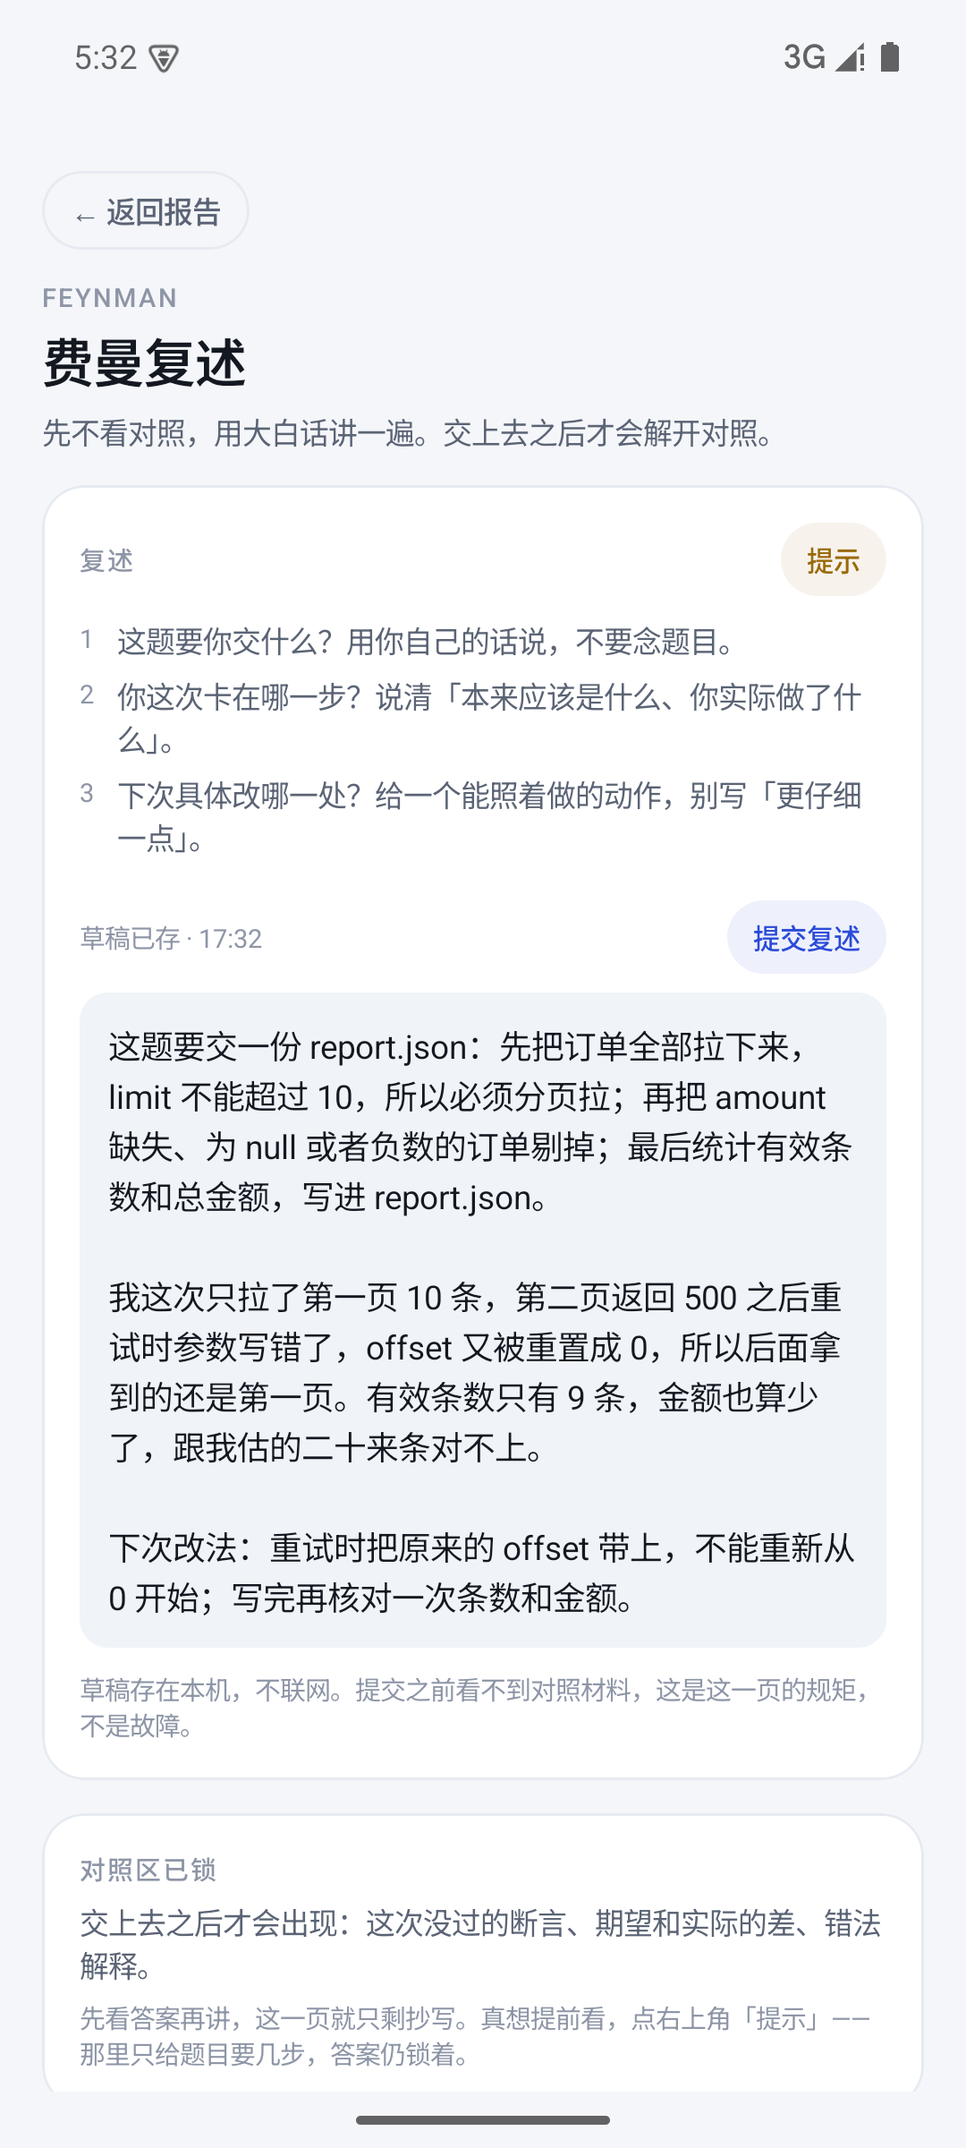
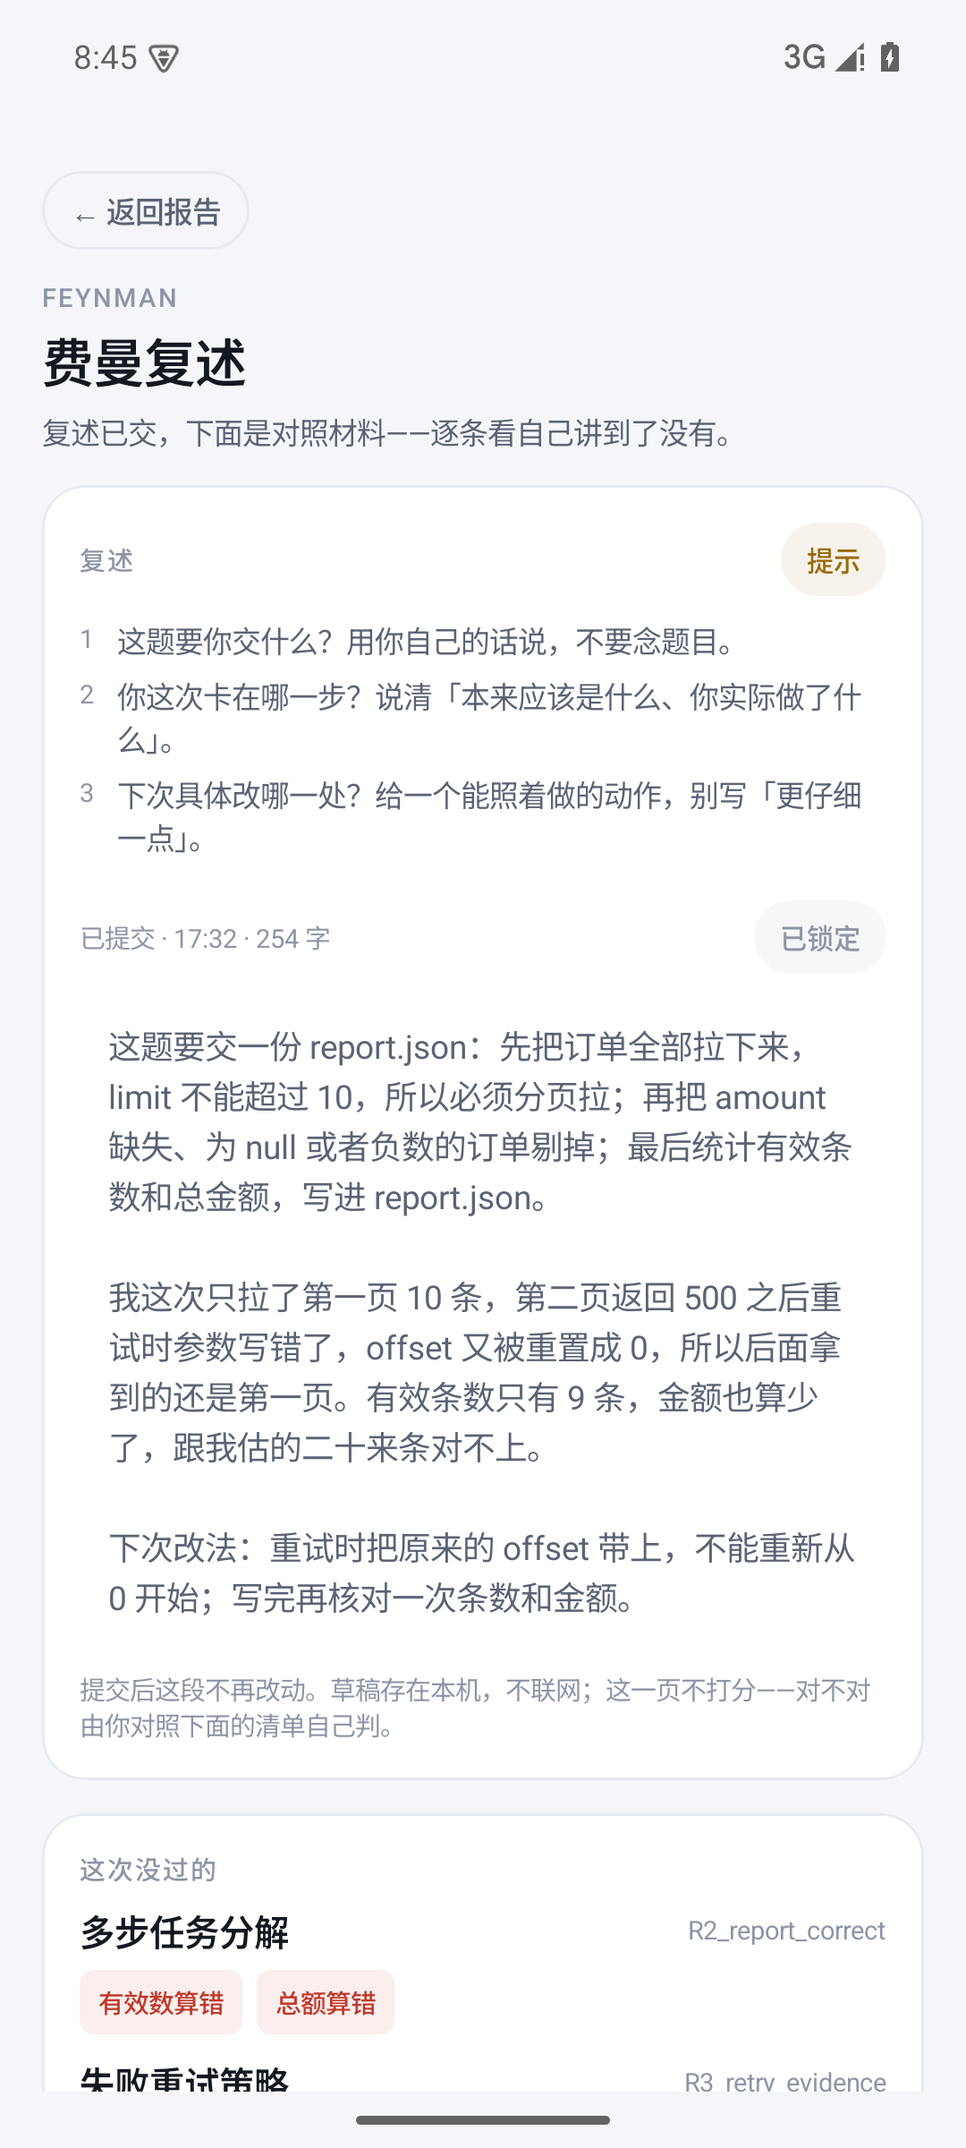
fix(feynman): 「这次没过的」不再印断言 id；四页走查完成并重拍截图
模拟器（arena35，headless）跑起来后逐页走查，撞到一处与对外声明矛盾的机器码：
复述页「这次没过的」每个技能名右侧直接印 `R3_retry_evidence`，
而计划书当时已经写着「报告页 / 训练单页 / 复述页三页都不再出现断言 id」。

改法与 B-37/B-39 同一套路：由产出侧翻好再下发。
- feynman.py 的 gaps 多一个 failed_titles（取报告 assertions[].title）；
  缺中文标题直接抛 ReportError，**不退回 id**——回退会让「报告结构破损」
  在页面上表现成「显示了一串英文」，那是样式问题，没人会提 bug。
- Kotlin 的 FeynmanGap 加 failedTitles，页面渲染它；failedAssertions 只留给对账与测试。

测试 2 条（tests/test_feynman.py，34 条全绿）：
- failed_titles 必须逐项等于报告 title、顺序一致、不含 `R\d+_`、不许为空；
- 去掉 title 必须抛错。
变异：把 failed_titles 改回 id ⇒ 立刻红并打印
`['R2_report_correct'] == ['结论是否与判据一致']`。

顺带走查并重拍四页截图（原来那几张是 11-20/11-21 的，页面已经变了）：
android-report-final.png / android-training.png / feynman-recall.png / feynman-checklist.png
全部换成 11-25 的实拍，另加两张新的：android-training-focus.png（练完回来看哪一条、
已显示中文判据标题）、reminder-today.png（提醒页首次上屏：今天 2 项 / 顺延 1 项 / 上限原句）。

文档口径随之订正：计划书四处「提醒页未走查」改为已跑通并实拍、进度快照日期改 11-25、
模块完成度由三页改四页；handoff §9 划掉「未在设备上走过」并写清走查看到的三件事；
android-build.md 的截图清单标明哪两张是重拍的、哪五张仍是旧的。

文案总表 194 → 195：新增那条是 feynman.py 的 ReportError 消息，
表的口径本来就把数据层异常消息算进去（既有的「技能词表里没有 name」也在表内）。

diff --git a/android/app/src/main/java/com/arena/companion/FeynmanPrompt.kt b/android/app/src/main/java/com/arena/companion/FeynmanPrompt.kt
@@ -21,6 +21,9 @@ data class FeynmanPattern(val label: String, val plain: String)
 
 data class FeynmanGap(
     val skillLabel: String,
+    // failedTitles 才是屏幕上的字（如「结论是否与判据一致」）。
+    // failedAssertions 留着只给对账/测试用——页面上印 `R2_report_correct` 是 bug。
+    val failedTitles: List<String>,
     val failedAssertions: List<String>,
     val patterns: List<FeynmanPattern>,
 )
@@ -81,6 +84,7 @@ fun parseFeynmanPrompt(text: String): FeynmanPrompt {
         gaps = root.optJSONArray("gaps").mapObjects { o ->
             FeynmanGap(
                 skillLabel = o.optString("skill_label"),
+                failedTitles = o.optJSONArray("failed_titles").toStringList(),
                 failedAssertions = o.optJSONArray("failed_assertions").toStringList(),
                 patterns = o.optJSONArray("patterns").mapObjects { p ->
                     FeynmanPattern(

diff --git a/android/app/src/main/java/com/arena/companion/FeynmanScreen.kt b/android/app/src/main/java/com/arena/companion/FeynmanScreen.kt
@@ -353,7 +353,7 @@ private fun GapCard(prompt: FeynmanPrompt) {
             Row(verticalAlignment = Alignment.CenterVertically) {
                 Text(gap.skillLabel, style = TH2)
                 Spacer(Modifier.weight(1f))
-                Text(gap.failedAssertions.joinToString("、"), style = TMicro)
+                Text(gap.failedTitles.joinToString("、"), style = TMicro)
             }
             if (gap.patterns.isNotEmpty()) {
                 Spacer(Modifier.height(6.dp))

diff --git a/tests/test_feynman.py b/tests/test_feynman.py
@@ -10,6 +10,7 @@
 from __future__ import annotations
 
 import json
+import re
 import sys
 from pathlib import Path
 
@@ -19,7 +20,7 @@ import yaml
 ROOT = Path(__file__).resolve().parents[1]
 sys.path.insert(0, str(ROOT / "src"))
 
-from arena.diagnosis_report import load_pattern_labels, load_skill_labels  # noqa: E402
+from arena.diagnosis_report import ReportError, load_pattern_labels, load_skill_labels  # noqa: E402
 from arena.feynman import (  # noqa: E402
     FeynmanError,
     QUESTIONS,
@@ -295,6 +296,38 @@ def test_checklist_steps_are_verbatim_from_task(prompt, task):
     steps = [item for item in prompt["checklist"] if item["kind"] == "step"]
     assert [item["text"] for item in steps] == asks_of(task)
     assert steps, "没有步骤就不该有清单主干——空清单等于页面假装自查过了"
+
+
+def test_gap_failed_titles_are_chinese_and_not_ids(prompt, report):
+    """「这次没过的」右上角那行必须是中文标题，不能是 `R3_retry_evidence`。
+
+    2026-11-25 在模拟器上实测到：报告页与训练单页都改完了，这一页还印着断言 id，
+    而计划书当时已经对外写着「三页都不再出现断言 id」。这条测试就是补上那个洞。
+    """
+    titles = {a["id"]: a["title"] for a in report["assertions"]}
+    seen = 0
+    for gap in prompt["gaps"]:
+        assert gap["failed_titles"] == [titles[i] for i in gap["failed_assertions"]], (
+            "failed_titles 必须逐项等于报告里的 title，且顺序与 failed_assertions 一致"
+        )
+        for title in gap["failed_titles"]:
+            assert not re.match(r"^R\d+_", title), f"页面上出现了断言 id：{title}"
+            assert title.strip(), "空标题比 id 更糟——看起来像样式没写好"
+        seen += 1
+    assert seen == 2, "这份样例报告该有两个技能缺口，数不对说明测试没验到东西"
+
+
+def test_gap_assertion_without_title_raises(report, task):
+    """缺中文标题就抛错，不退回 id。
+
+    回退会让「报告结构破损」在页面上表现成「显示了一串英文」，
+    那是样式问题，没人会提 bug。
+    """
+    broken = json.loads(json.dumps(report))
+    for assertion in broken["assertions"]:
+        assertion.pop("title", None)
+    with pytest.raises(ReportError, match="中文标题"):
+        build_prompt(broken, task)
 
 
 def test_checklist_missed_text_is_verbatim_from_report(prompt, report):

diff --git a/src/arena/feynman.py b/src/arena/feynman.py
@@ -190,11 +190,27 @@ def build_prompt(
     if missing:
         raise FeynmanError(f"错误模式 {missing} 出现在报告里，但 {VOCAB_PATH.name} 里查不到")
 
+    # 断言 id → 报告下发的中文标题。页面上的「没过哪几条」要给人读的字，
+    # 但 `failed_assertions` 里只有 id；这里一次翻好，页面不再有机会印 `R3_retry_evidence`。
+    titles = {
+        str(a.get("id")): str(a.get("title") or "")
+        for a in report.get("assertions") or ()
+        if a.get("id") is not None
+    }
+
     gaps: list[dict[str, Any]] = []
     for gap in report.get("skill_gaps") or ():
         skill_id = gap.get("skill_id")
         if skill_id not in skill_labels:
             raise ReportError(f"缺口里的技能 {skill_id!r} 在技能词表里没有 name")
+        failed_ids = [str(i) for i in (gap.get("failed_assertions") or ())]
+        missing_titles = [i for i in failed_ids if not titles.get(i)]
+        if missing_titles:
+            # 不退回 id：页面上出现 `R2_report_correct` 会让「报告结构破损」
+            # 看起来像「样式问题」，没人会为它提 bug。
+            raise ReportError(
+                f"缺口里的断言 {missing_titles} 在报告的 assertions 里没有中文标题"
+            )
         patterns = [
             {
                 "id": pid,
@@ -206,7 +222,8 @@ def build_prompt(
         gaps.append(
             {
                 "skill_label": skill_labels[skill_id],
-                "failed_assertions": list(gap.get("failed_assertions") or ()),
+                "failed_assertions": failed_ids,
+                "failed_titles": [titles[i] for i in failed_ids],
                 "weight_lost": gap.get("weight_lost"),
                 "patterns": patterns,
             }

diff --git a/docs/项目计划书草稿-v0.5.md b/docs/项目计划书草稿-v0.5.md
@@ -38,7 +38,7 @@
 
 **交付形态（2026-11-20 定稿）**：**Android 原生应用**（Kotlin + Jetpack Compose），承载诊断报告 / 训练单 / 费曼复述 / 复习提醒，是学习闭环的主入口；Web 端只承担 Agent 开发与提交。Streamlit 仅作内部开发工作台，**不进入交付物**。
 
-**当前进度快照（2026-11-24，可现场核验）**：本计划书描述完整蓝图，其中**评测层、状态层、推荐口径与移动端三页已实现并跑通**——单元测试 **2146 个用例全绿**（`pytest tests/ -q`，**2143 passed / 3 skipped / 0 failed**；串行跑的口径，与评审包一致——并行跑时 `test_review_packet` 有一条因 xdist 语义跳过，会多显示 1 条 skipped，那不是两条真相源；每次运行的档案留存在 `docs/test-evidence/INDEX.md`，含 commit、环境、逐文件用例数）；任务库 **27 个**已建（五族 7/7/5/5/3 道：汇报 / 重试 / 参数面 / 定位 / 交接，难度档 1/2/3 全覆盖）；首个任务 `dbg-001-order-report` 用五份不同质量的**手写**假提交跑出 **0 / 0.25 / 0 / 0 / 1.00** 的区分度（明细见 §4.6），**另有全库 27 道题各 5–6 种形态的机器矩阵**（判据是"分数 + 失败断言 + 错误模式"两两互不相同，`tests/test_discrimination.py`）；掌握度（自研 EMA + 时间衰减）与复习排程已编码，可跑出成绩单（`scripts/mastery_scorecard.py`；掌握度 + 排程 + 调度共 140 条测试通过）；规则推荐已落地为「同族逐档」（§4.2-6，`src/arena/training.py` + 30 条测试）；费曼复述页已落地为「三问提纲 → 提交锁定 → 解锁对照清单 → 逐条自查」（`src/arena/feynman.py` + 29 条测试）；Android 原生**报告页、训练单页与费曼复述页**已在模拟器上跑通并实拍（`docs/images/android-report-final.png`、`android-training.png`、`feynman-recall.png`、`feynman-checklist.png`）；报错文案已全部改成人话（19 条错误模式各有一句事实句 + 一句动作句），**报告页 / 训练单页 / 复述页三页都不再出现断言 id 与字段名**（如 `R2_report_correct`、`valid_count`）；复述页的「这个错法叫什么」用词表新增的 `plain` 字段，`description` 仍留给 judge 判据清单。**尚未完成**：复习提醒页的**设备走查与截图**（代码、数据契约与资源同源校验已完成，APK 编过；2026-11-24 本机无可连设备）、掌握度回测——逐项见 §六。
+**当前进度快照（2026-11-25，可现场核验）**：本计划书描述完整蓝图，其中**评测层、状态层、推荐口径与移动端四页已实现并跑通**——单元测试 **2146 个用例全绿**（`pytest tests/ -q`，**2143 passed / 3 skipped / 0 failed**；串行跑的口径，与评审包一致——并行跑时 `test_review_packet` 有一条因 xdist 语义跳过，会多显示 1 条 skipped，那不是两条真相源；每次运行的档案留存在 `docs/test-evidence/INDEX.md`，含 commit、环境、逐文件用例数）；任务库 **27 个**已建（五族 7/7/5/5/3 道：汇报 / 重试 / 参数面 / 定位 / 交接，难度档 1/2/3 全覆盖）；首个任务 `dbg-001-order-report` 用五份不同质量的**手写**假提交跑出 **0 / 0.25 / 0 / 0 / 1.00** 的区分度（明细见 §4.6），**另有全库 27 道题各 5–6 种形态的机器矩阵**（判据是"分数 + 失败断言 + 错误模式"两两互不相同，`tests/test_discrimination.py`）；掌握度（自研 EMA + 时间衰减）与复习排程已编码，可跑出成绩单（`scripts/mastery_scorecard.py`；掌握度 + 排程 + 调度共 140 条测试通过）；规则推荐已落地为「同族逐档」（§4.2-6，`src/arena/training.py` + 30 条测试）；费曼复述页已落地为「三问提纲 → 提交锁定 → 解锁对照清单 → 逐条自查」（`src/arena/feynman.py` + 29 条测试）；Android 原生**报告页、训练单页、费曼复述页与复习提醒页四页**已在模拟器上逐页走查并实拍（`docs/images/android-report-final.png`、`android-training.png`、`feynman-recall.png`、`feynman-checklist.png`、`reminder-today.png`）；报错文案已全部改成人话（19 条错误模式各有一句事实句 + 一句动作句），**报告页 / 训练单页 / 复述页三页都不再出现断言 id 与字段名**（如 `R2_report_correct`、`valid_count`）；复述页的「这个错法叫什么」用词表新增的 `plain` 字段，`description` 仍留给 judge 判据清单。**尚未完成**：掌握度历史回测（需本人历史练习数据）；真机（荣耀）上的输入法语音键实测与录屏素材——逐项见 §六。
 **阅读约定**：§4.6 之内是**已实测**，§4.6 之外（除特别标注）是**设计陈述**。两者不混写。
 
 ---
@@ -273,7 +273,7 @@
 | 训练单页（报告 →「下一步」→ 下一档练什么 / 怎么算练会 / 回来核对哪条） | ✅ **已跑通**（模拟器实拍） | `docs/images/android-training.png`；`pytest tests/test_training.py -q` |
 | 费曼复述页（三问提纲 → 提交锁定 → 解锁对照清单 → 逐条自查；只有文字输入） | ✅ **已跑通**（模拟器实拍，覆盖提交前 / 提交确认 / 提交后三态） | `docs/images/feynman-recall.png`、`feynman-hint-locked.png`、`feynman-commit-dialog.png`、`feynman-unlocked.png`、`feynman-checklist.png`、`feynman-hint-open.png`；`pytest tests/test_feynman.py -q` |
 | 用户可见文案总表（194 条，含 `文件:行` 定位；**脚本生成，不许手改**） | ✅ **已落地**（改代码不重生成表，测试会红；命令行 help 自动归类，不混进页面文案） | `python scripts/copy_inventory.py --check`；`pytest tests/test_copy_inventory.py -q` |
-| 复习提醒页 | 🟡 **已实现、未走查**（今日队列 / 上限截断 / 被推迟项点名 / cap=0 与空态分开说；`assets/reminder.json` 由数据侧生成，Compose 第四页已接、APK 编过，**本机无可连设备，未在屏幕上验过**） | `python scripts/review_page.py --at 2026-11-22T21:00:00+08:00`；`pytest tests/test_reminder.py tests/test_reminder_asset.py -q` |
+| 复习提醒页 | ✅ **已跑通**（2026-11-25 在模拟器上逐项走查：今日队列 2 项 / 明天顺延 1 项 / 上限原句 / 技能名与错法均为中文，页面无内部 id） | `docs/images/reminder-today.png`；`python scripts/review_page.py --at 2026-11-22T21:00:00+08:00`；`pytest tests/test_reminder.py tests/test_reminder_asset.py -q` |
 | 掌握度历史回测（AUC） | ⚪ 未做（需本人历史练习数据，现无） | — |
 
 **四、judge 双评一致性（2026-11-14 实测）**
@@ -302,7 +302,7 @@
 | 项 | 状态 | 说明 |
 |---|---|---|
 | 掌握度 / 复习调度 / 四因子排程 | 未开始编码 | 口径已在 §4.2-8 / -9 定，按 §六 M3–M5 |
-| 移动端 | 报告页、训练单页、费曼复述页三页**已跑通并实拍**；**复习提醒页已实现（数据 + Compose 页 + 资源同源校验，APK 编过），但未做设备走查** | Android 原生（2026-11-20 定稿），模拟器实拍见 `docs/images/`；四页仍用状态机切换（页面间无回退栈需求），到第五页再引导航组件 |
+| 移动端 | 报告页、训练单页、费曼复述页、复习提醒页四页**均已在模拟器上走查并实拍**（2026-11-25） | Android 原生（2026-11-20 定稿），模拟器实拍见 `docs/images/`；四页仍用状态机切换（页面间无回退栈需求），到第五页再引导航组件 |
 | 真实 LLM 接入 | 用确定性剧本模型替代 | 卡固定版本端点与配额；不影响断言层的正确性验证 |
 | 性能数据 | 无 | 复赛前按"单次诊断端到端时延 / 峰值内存 / 五夹具并发"三项出表，**不先填数** |
 | 真实用户 / dogfooding | 未开展 | 应用价值的唯一正解，排在复赛前 |

diff --git a/docs/copy-inventory.md b/docs/copy-inventory.md
@@ -3,8 +3,8 @@
 > **本文件由 `scripts/copy_inventory.py` 生成，不许手改。** 手改会让表和代码不一致，
 > 而表一旦和代码不一致，它就是错的第二真相源。校验：`python scripts/copy_inventory.py --check`。
 
-共 **194** 条：Android 页面 156 条（编译进 APK）、数据层 38 条（生成进 `assets/*.json`）。
-其中固定文案 149 条、含运行时占位符 40 条、命令行说明 5 条。
+共 **195** 条：Android 页面 156 条（编译进 APK）、数据层 39 条（生成进 `assets/*.json`）。
+其中固定文案 149 条、含运行时占位符 41 条、命令行说明 5 条。
 
 ## 两个问题，别混
 
@@ -217,7 +217,7 @@ python -m arena.feynman --from-report android/app/src/main/assets/sample-report.
 | 218 | 固定 | 本页由 tasks/ 下的任务定义推出：族与档位来自 variant_meta，要求清单来自 scenario。 |
 | 219 | 固定 | 没有一条建议是手写的；改任务定义后重新生成 training-plan.json 即可。 |
 
-### `feynman.py`（22 条 · 数据层）
+### `feynman.py`（23 条 · 数据层）
 
 | 行 | 类别 | 文案 |
 |---:|---|---|
@@ -231,18 +231,19 @@ python -m arena.feynman --from-report android/app/src/main/assets/sample-report.
 | 95 | 固定 | （空） |
 | 177 | 模板 | f"报告判的是 {reported!r}，任务定义却是 {declared!r}：对不上，拒绝产出复述材料" |
 | 191 | 模板 | f"错误模式 {missing} 出现在报告里，但 {VOCAB_PATH.name} 里查不到" |
-| 197 | 模板 | f"缺口里的技能 {skill_id!r} 在技能词表里没有 name" |
-| 250 | 固定 | 题目到底要几步 |
-| 260 | 固定 | 把期望和实际念一遍 |
-| 262 | 模板 | f"{title} · {row['field']}：期望 {row['expected']}，实际 {row['actual']}" |
-| 272 | 固定 | 这个错法叫什么 |
-| 281 | 固定 | 当时现场是什么样 |
-| 309 | 模板 | f"{folder} 下找不到 task_id={task_id!r} 的任务定义" |
-| 313 | 命令行 | 生成费曼复述页的数据包 |
-| 314 | 命令行 | 诊断报告 JSON |
-| 315 | 命令行 | 任务 YAML（不填则按报告里的 task_id 在 --catalog 下找） |
-| 316 | 命令行 | 任务目录 |
-| 317 | 命令行 | 写入文件（不填则打印到 stdout） |
+| 205 | 模板 | f"缺口里的技能 {skill_id!r} 在技能词表里没有 name" |
+| 212 | 模板 | f"缺口里的断言 {missing_titles} 在报告的 assertions 里没有中文标题" |
+| 267 | 固定 | 题目到底要几步 |
+| 277 | 固定 | 把期望和实际念一遍 |
+| 279 | 模板 | f"{title} · {row['field']}：期望 {row['expected']}，实际 {row['actual']}" |
+| 289 | 固定 | 这个错法叫什么 |
+| 298 | 固定 | 当时现场是什么样 |
+| 326 | 模板 | f"{folder} 下找不到 task_id={task_id!r} 的任务定义" |
+| 330 | 命令行 | 生成费曼复述页的数据包 |
+| 331 | 命令行 | 诊断报告 JSON |
+| 332 | 命令行 | 任务 YAML（不填则按报告里的 task_id 在 --catalog 下找） |
+| 333 | 命令行 | 任务目录 |
+| 334 | 命令行 | 写入文件（不填则打印到 stdout） |
 
 ### `reminder.py`（16 条 · 数据层）
 

diff --git a/docs/android-build.md b/docs/android-build.md
@@ -13,8 +13,10 @@
   提交后才出现期望值、错法解释与自查清单。语音与手写两版做过又删了（2026-11-21），
   理由与恢复条件写在 `docs/android-ui-handoff.md` §4.6。
   截图见 `docs/images/feynman-recall.png`、`feynman-hint-locked.png`、`feynman-commit-dialog.png`、
-  `feynman-unlocked.png`、`feynman-checklist.png`、`feynman-hint-open.png`。
-- 复习提醒页（2026-11-24）：入口在报告页页尾「今日复习」卡，清单页只摆位置——不排序、不截断、
+  `feynman-unlocked.png`、`feynman-checklist.png`、`feynman-hint-open.png`
+  （其中 `feynman-recall.png`、`feynman-checklist.png` 是 2026-11-25 重拍的，其余五张仍是 11-21 的）。
+- 复习提醒页（2026-11-24 实现 / 2026-11-25 走查）：入口在报告页页尾「今日复习」卡，实拍见
+  `docs/images/reminder-today.png`。，清单页只摆位置——不排序、不截断、
   不改写文案，因为「今天给几项」由后端 `scheduler.take_daily()` 唯一决定。数据来自
   `assets/reminder.json`，**必须用命令重生成，不许手改**：
 
